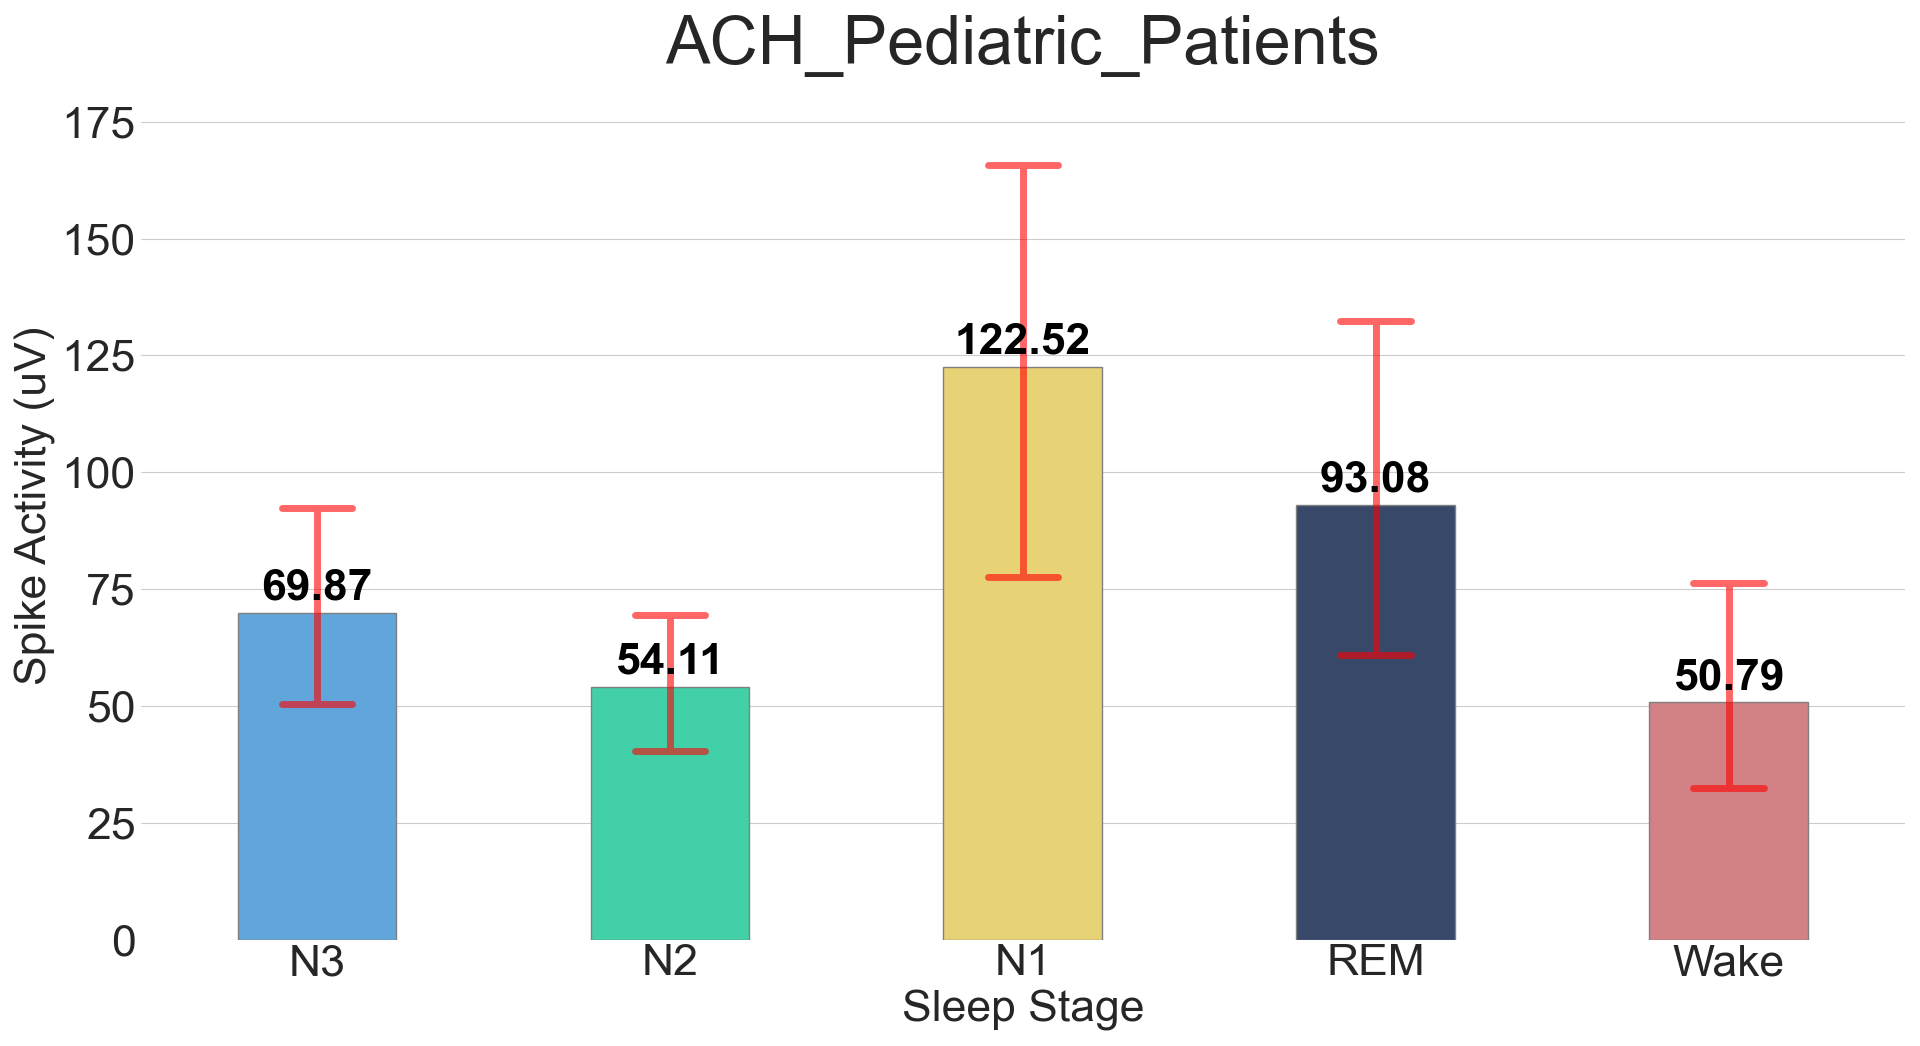
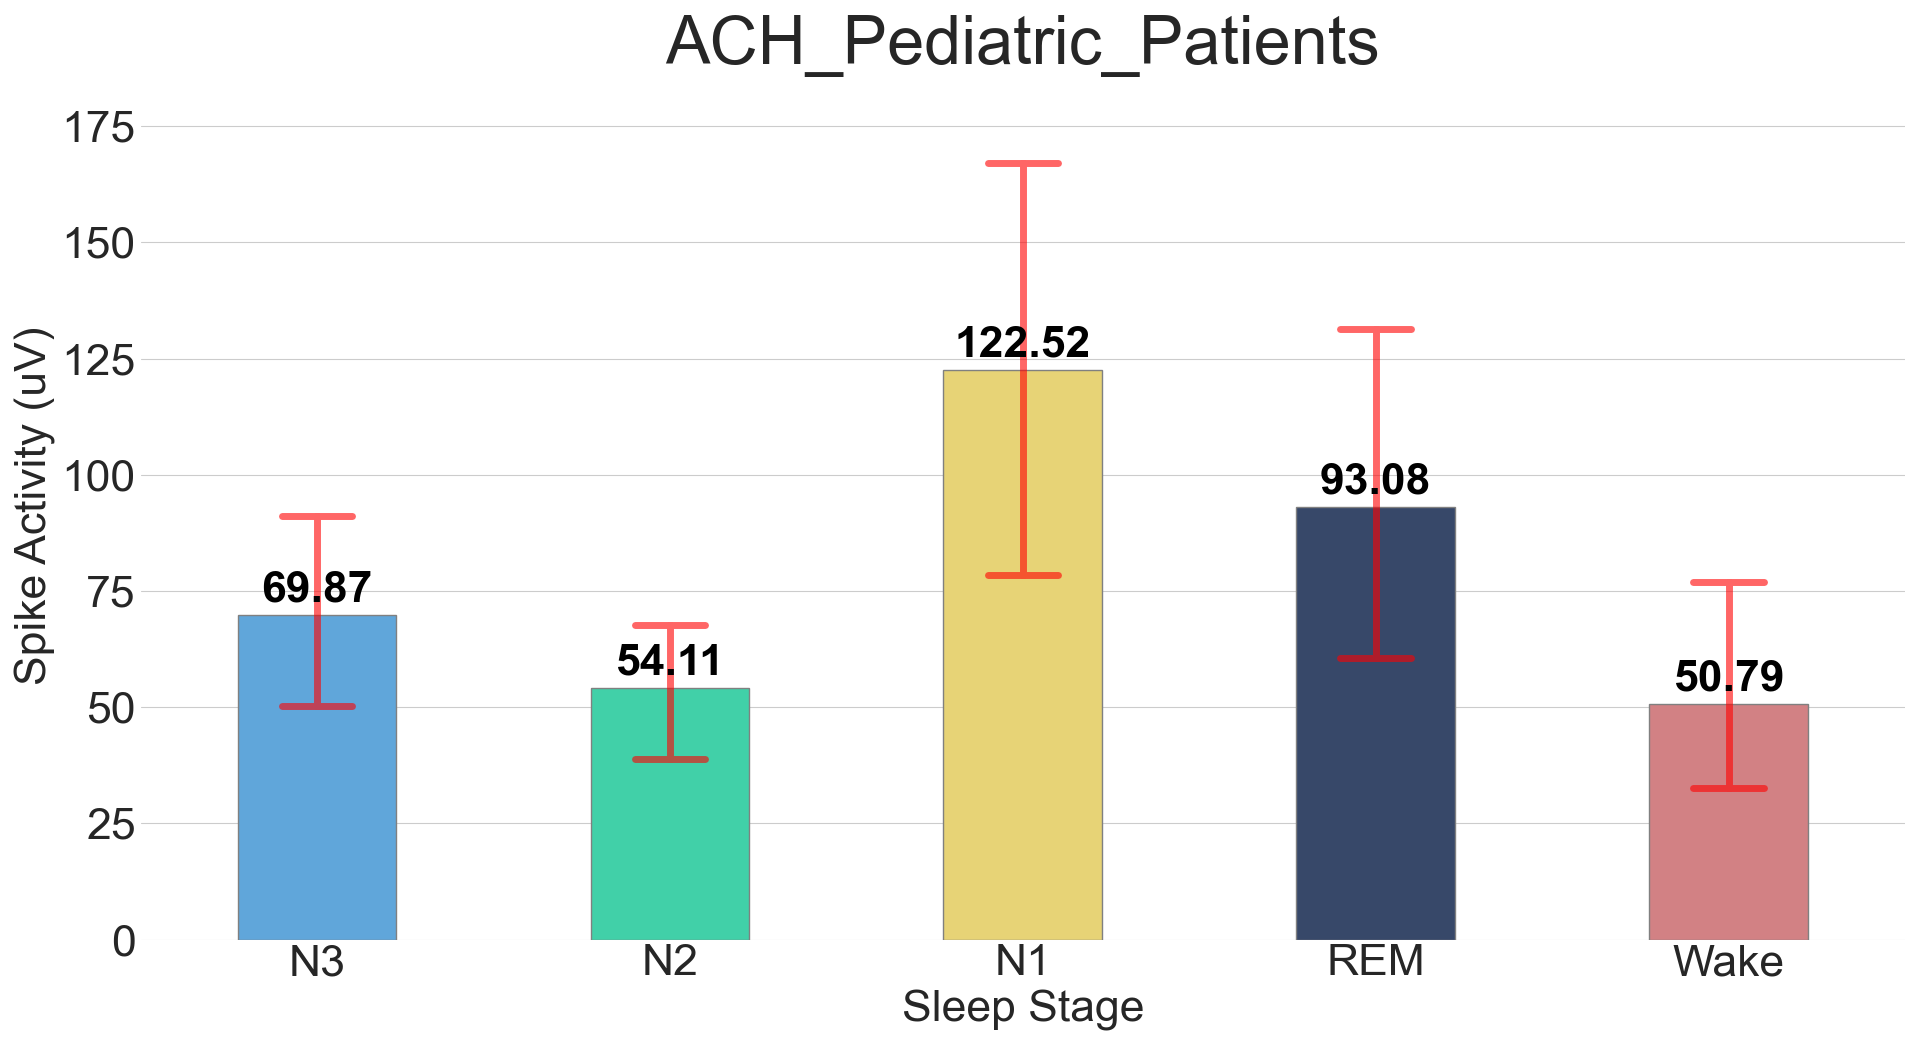
add aggregated sleep

diff --git a/pyeeg_toolbox/persyst/ILAE_2025_Figures.py b/pyeeg_toolbox/persyst/ILAE_2025_Figures.py
@@ -31,6 +31,27 @@ sns.set_style("whitegrid")
 
 FIGSIZE = (16, 8)
 
+
+# Utility function to convert hex color to rgb string
+def hex_to_rgb(hex_color):
+    hex_color = hex_color.lstrip('#')
+    if len(hex_color) == 3:
+        hex_color = ''.join([c*2 for c in hex_color])
+    r, g, b = tuple(int(hex_color[i:i+2], 16) for i in (0, 2, 4))
+    return (r,g,b)
+
+STAGES_COLORS_SELECT = {
+    "Sleep": "#FF9532FF",    # Orange
+    "N1": "#FAE163",    # Light gold
+    "N2": "#29E8B2",    # Turquoise
+    "N3": "#4CA9EE",    # Sky blue
+    "REM": "#2F4571",   # Dark blue
+    "Wake": "#B93D4E",  # Light red
+    "Unknown": "#808080" # Gray
+}
+
+STAGES_COLORS = {stage_name:hex_to_rgb(color) for stage_name,color in STAGES_COLORS_SELECT.items()}
+
 class Spike_Activity_Analyzer:
     """
     Class to analyze spike activity in EEG data, including reading data, handling outliers, scaling, and plotting results.
@@ -70,7 +91,7 @@ class Spike_Activity_Analyzer:
         # ci_range = (res.confidence_interval.low, res.confidence_interval.high)
         return ci_range
 
-    def read_patient_spike_data(self):
+    def read_patient_spike_data(self, stage_duration_spike_rate_df: pd.DataFrame=None):
         nr_pats = len(self.pats_ls)
         # Concatenate data from all patients
         spike_data_df = pd.DataFrame()
@@ -85,6 +106,33 @@ class Spike_Activity_Analyzer:
                 pdata_df.loc[pdata_df.Stage.isnull().to_numpy(), 'Stage'] = 'NaN_SleepStage'
                 assert pdata_df.isna().sum().sum() == 0, f"NaN values in {pdata_fn}"
                 assert pdata_df.isnull().sum().sum() == 0, f"Null values in {pdata_fn}"
+
+                # Add weighted average spike activity for Sleep, i.e. the sum of all sleep stages N3, N2, N1, REM weighted by their duration
+                pat_stage_dur = stage_duration_spike_rate_df[stage_duration_spike_rate_df.PatID.str.fullmatch(pdata_fn, case=False)].reset_index(drop=True).copy()
+                pat_stage_dur = pat_stage_dur[pat_stage_dur.Stage.str.fullmatch('N3|N2|N1|REM', case=False)]
+                pdata_sleep_df = pdata_df[pdata_df.Stage.str.fullmatch('N3|N2|N1|REM', case=False)]
+                sleep_chann_data = {col_name:[] for col_name in pdata_df.columns.tolist()}
+                for chname in pdata_sleep_df.Channel.unique():
+                    chann_sel = pdata_sleep_df.Channel.str.fullmatch(chname, case=False)
+                    assert np.sum(chann_sel) == 4, f"More than one entry per sleep stage in {pdata_fn}"
+                    ch_amplitudes = pdata_sleep_df.loc[chann_sel, ['Stage','Amplitude']]
+                    ch_amplitudes.sort_values(by='Stage', axis=0, ascending=True, inplace=True)
+                    ch_stages_duration = pat_stage_dur[['Stage', 'StageDurM']].sort_values(by='Stage', axis=0, ascending=True)
+                    assert np.sum(ch_amplitudes.Stage.values == ch_stages_duration.Stage.values) == 4, "Sleep stages do not match in Amplitude and StageDurM"
+                    ch_weighted_amplitude = np.average(ch_amplitudes.Amplitude, weights=ch_stages_duration.StageDurM)
+                    nr_clips_with_spikes = pdata_sleep_df.loc[chann_sel, ['NrClipsWithSpikes']].max().values[0]
+                    ch_soz = pdata_sleep_df.loc[chann_sel, 'SOZ'].unique()
+                    assert len(ch_soz) == 1, f"More than one SOZ value for channel {chname} in {pdata_fn}"
+                    
+                    sleep_chann_data['Stage'].append('Sleep')
+                    sleep_chann_data['Channel'].append(chname)
+                    sleep_chann_data['Amplitude'].append(ch_weighted_amplitude)
+                    sleep_chann_data['NrClipsWithSpikes'].append(nr_clips_with_spikes)
+                    sleep_chann_data['SOZ'].append(ch_soz[0])
+                    sleep_chann_data['Patient'].append(pdata_fn.replace('_AvgSpikeWdwActivity.csv', ''))
+
+                    pass
+                pdata_df = pd.concat([pdata_df, pd.DataFrame(sleep_chann_data)], ignore_index=True)
 
                 spike_data_df = pd.concat([spike_data_df, pdata_df])
             except Exception as e:
@@ -114,6 +162,11 @@ class Spike_Activity_Analyzer:
             #print(data_fpath)
             try:
                 pdata_df = pd.read_csv(data_fpath)
+                pat_sleepdata_df = pdata_df[pdata_df.Stage.str.fullmatch('N3|N2|N1|REM', case=False)]
+                sleep_occ_rate = np.average(pat_sleepdata_df.SpikeOccRate, weights=pat_sleepdata_df.StageDurM)
+                pdata_sleep_df = {'PatID': pdata_df.PatID.unique()[0], 'Stage': 'Sleep', 'StageDurM': pat_sleepdata_df.StageDurM.sum(), 'SpikeOccRate': sleep_occ_rate}
+                pdata_sleep_df = pd.DataFrame(pdata_sleep_df, index=[0])
+                pdata_df = pd.concat([pdata_sleep_df, pdata_df], ignore_index=True)
                 stage_duration_spike_rate_df = pd.concat([stage_duration_spike_rate_df, pdata_df])
             except:
                 print(f"File {pdata_fn} not found")
@@ -201,7 +254,8 @@ class Spike_Activity_Analyzer:
         
         # Analyze Sleep Stages Duration and Confidence Intervals
         stages_ci_ranges = {}
-        for stage_name in stage_duration_spike_rate_orig_df.Stage.unique():
+        stages_ls = stage_duration_spike_rate_orig_df.Stage.unique().tolist()
+        for stage_name in stages_ls:
             stage_sel = stage_duration_spike_rate_orig_df.Stage.str.fullmatch(stage_name, case=False)
             assert stage_sel.sum() == nr_pats, "More than one entry per patient"
             all_pats_stage_durations = stage_duration_spike_rate_orig_df.loc[stage_sel, 'StageDurM'].to_numpy()/60
@@ -217,7 +271,7 @@ class Spike_Activity_Analyzer:
 
         # Plot Sleep Stages N3, N2, N1, REM
         stage_duration_spike_rate_df = stage_duration_spike_rate_orig_df.copy()
-        to_plot_stage_names = ['N3', 'N2', 'N1', 'REM']
+        to_plot_stage_names = ['Sleep', 'N3', 'N2', 'N1', 'REM', 'Wake']
         stage_duration_spike_rate_df['StageDurH'] = stage_duration_spike_rate_df.StageDurM / 60.0 # convert to hours
         to_plot_stage_sel = stage_duration_spike_rate_df.Stage.isin(to_plot_stage_names)
         stage_duration_spike_rate_df = stage_duration_spike_rate_df[to_plot_stage_sel].reset_index(drop=True).copy()
@@ -238,32 +292,32 @@ class Spike_Activity_Analyzer:
         axs.set_xlabel("Sleep Stage", fontsize=32)
         axs.tick_params(axis='x', labelsize=32)
         axs.tick_params(axis='y', labelsize=32)
-        axs.set_ylim(0, 16) # set y-axis limit to 60 minutes
-
-        # Plot Sleep Stages N2, N1, REM, Wake
-        axs = all_axs[1]
-        to_plot_stage_names = ['N2', 'N1', 'REM', 'Wake']
-        stage_duration_spike_rate_df = stage_duration_spike_rate_orig_df.copy()
-        stage_duration_spike_rate_df['StageDurH'] = stage_duration_spike_rate_df.StageDurM / 60.0 # convert to hours
-        to_plot_stage_sel = stage_duration_spike_rate_df.Stage.isin(to_plot_stage_names)
-        stage_duration_spike_rate_df = stage_duration_spike_rate_df[to_plot_stage_sel].reset_index(drop=True).copy()
-        to_plot_stages_colors = [self.stages_colors[k] for k in to_plot_stage_names]
-        assert nr_pats == len(stage_duration_spike_rate_df.PatID.unique()), "More than one entry per patient"
-        bp_ax = sns.barplot(data=stage_duration_spike_rate_df, x='Stage', y='StageDurH', hue='Stage', 
-            order=to_plot_stage_names, palette=to_plot_stages_colors, ax=axs,
-            capsize=.2,
-            errorbar=errorbar_def,
-            err_kws=errorbar_characteristics,
-            linewidth=1, edgecolor=".5", width=0.5, gap=0.1,
-            estimator=np.mean
-            )
-        for cont in bp_ax.containers:
-            axs.bar_label(cont, fmt='%.2f', fontsize=32, label_type='edge', padding=3, color='black', weight='bold')
-        axs.set_ylabel("Duration (hours)", fontsize=32)
-        axs.set_xlabel("Sleep Stage", fontsize=32)
-        axs.tick_params(axis='x', labelsize=32)
-        axs.tick_params(axis='y', labelsize=32)
         axs.set_ylim(0, 41) # set y-axis limit to 60 minutes
+
+        # # Plot Sleep Stages N2, N1, REM, Wake
+        # axs = all_axs[1]
+        # to_plot_stage_names = ['N2', 'N1', 'REM', 'Wake']
+        # stage_duration_spike_rate_df = stage_duration_spike_rate_orig_df.copy()
+        # stage_duration_spike_rate_df['StageDurH'] = stage_duration_spike_rate_df.StageDurM / 60.0 # convert to hours
+        # to_plot_stage_sel = stage_duration_spike_rate_df.Stage.isin(to_plot_stage_names)
+        # stage_duration_spike_rate_df = stage_duration_spike_rate_df[to_plot_stage_sel].reset_index(drop=True).copy()
+        # to_plot_stages_colors = [self.stages_colors[k] for k in to_plot_stage_names]
+        # assert nr_pats == len(stage_duration_spike_rate_df.PatID.unique()), "More than one entry per patient"
+        # bp_ax = sns.barplot(data=stage_duration_spike_rate_df, x='Stage', y='StageDurH', hue='Stage', 
+        #     order=to_plot_stage_names, palette=to_plot_stages_colors, ax=axs,
+        #     capsize=.2,
+        #     errorbar=errorbar_def,
+        #     err_kws=errorbar_characteristics,
+        #     linewidth=1, edgecolor=".5", width=0.5, gap=0.1,
+        #     estimator=np.mean
+        #     )
+        # for cont in bp_ax.containers:
+        #     axs.bar_label(cont, fmt='%.2f', fontsize=32, label_type='edge', padding=3, color='black', weight='bold')
+        # axs.set_ylabel("Duration (hours)", fontsize=32)
+        # axs.set_xlabel("Sleep Stage", fontsize=32)
+        # axs.tick_params(axis='x', labelsize=32)
+        # axs.tick_params(axis='y', labelsize=32)
+        # axs.set_ylim(0, 41) # set y-axis limit to 60 minutes
 
         plt.suptitle(f"{self.study_name}", fontsize=48)
 
@@ -379,7 +433,7 @@ class Spike_Activity_Analyzer:
         print(f"Spike Occurrence Rate Differences between Sleep Stages")
         print(f"Nr. Patients: {nr_pats}")
 
-        stages_ls = ['N3', 'N2', 'N1', 'REM', 'Wake']
+        stages_ls = self.sleep_stages_ls
         test_results = np.ones((len(stages_ls),len(stages_ls)))+100
         for ia, stage_name_a in enumerate(stages_ls):
             stage_sel_a = stage_duration_spike_rate_df.Stage.str.fullmatch(stage_name_a, case=False)
@@ -522,7 +576,7 @@ class Spike_Activity_Analyzer:
         # Get average spike activity per stage for each patient
         all_pats_avg_stage_activity = spike_data_df[['Patient', 'Stage', 'Amplitude']].groupby(['Patient','Stage']).mean().reset_index()
 
-        stages_ls = ['N3', 'N2', 'N1', 'REM', 'Wake']
+        stages_ls = self.sleep_stages_ls
         test_results = np.ones((len(stages_ls),len(stages_ls)))+100
         for ia, stage_name_a in enumerate(stages_ls):
             stage_sel_a = all_pats_avg_stage_activity.Stage.str.fullmatch(stage_name_a, case=False)
@@ -835,7 +889,7 @@ class Spike_Activity_Analyzer:
             pass
 
         # Analyze Activity Differences        
-        stages_ls = ['N3', 'N2', 'N1', 'REM', 'Wake']
+        stages_ls = self.sleep_stages_ls
         test_results = np.ones((len(stages_ls),len(stages_ls)))+100
         for ia, stage_name_a in enumerate(stages_ls):
             spike_activity_a_diff = all_pats_diff[stage_name_a]
@@ -1372,8 +1426,9 @@ if __name__ == "__main__":
         pats_ls = list(study.patients.keys())
         characterization_datapath = pyeeg_output_path / "Spike_Characterized_Channels"
         stages_spikes_duration_rate_datapath = pyeeg_output_path / "Stage_Spike_Occurrence_Rate"
-        an_sleep_stages_ls = ['N3', 'N2', 'N1', 'REM', 'Wake']
+        an_sleep_stages_ls = ['Sleep', 'N3', 'N2', 'N1', 'REM', 'Wake']
         stages_colors = {'N1':(250,223,99), 'N2':(41,232,178), 'N3':(76,169,238), 'REM':(47,69,113), 'Wake':(224,115,120), 'Unknown':(128,128,128)}
+        stages_colors = STAGES_COLORS
         for k,v in stages_colors.items():
             stages_colors[k] = (v[0]/255, v[1]/255, v[2]/255)
         spike_analyzer = Spike_Activity_Analyzer(study.dataset_name, characterization_datapath, stages_spikes_duration_rate_datapath, pats_ls, an_sleep_stages_ls, stages_colors, images_opath, szr_cnt_df)
@@ -1381,7 +1436,7 @@ if __name__ == "__main__":
         # Read and analyze sleep stages and spike occurrence rate data
         stage_duration_spike_rate_df = spike_analyzer.read_stages_duration_and_spike_rates()
         # Read and analyze spike actvity data (average spike amplitude)
-        spike_data_df = spike_analyzer.read_patient_spike_data()
+        spike_data_df = spike_analyzer.read_patient_spike_data(stage_duration_spike_rate_df.copy())
 
         # Analyze differences in sleep stage durations
         spike_analyzer.plot_group_sleep_stage_durations_barchart(stage_duration_spike_rate_df)
